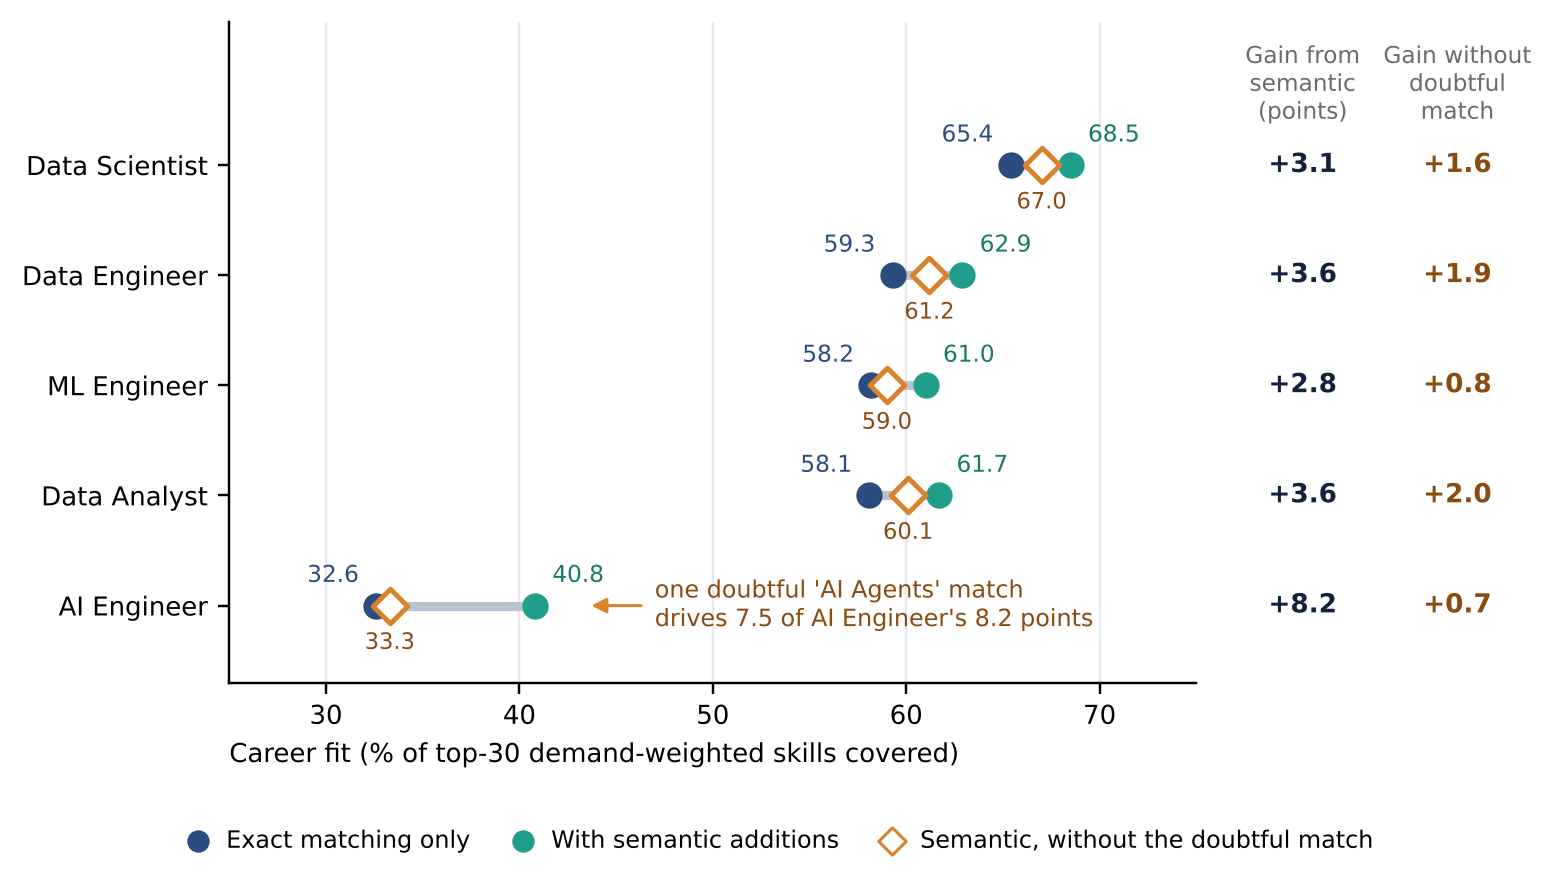
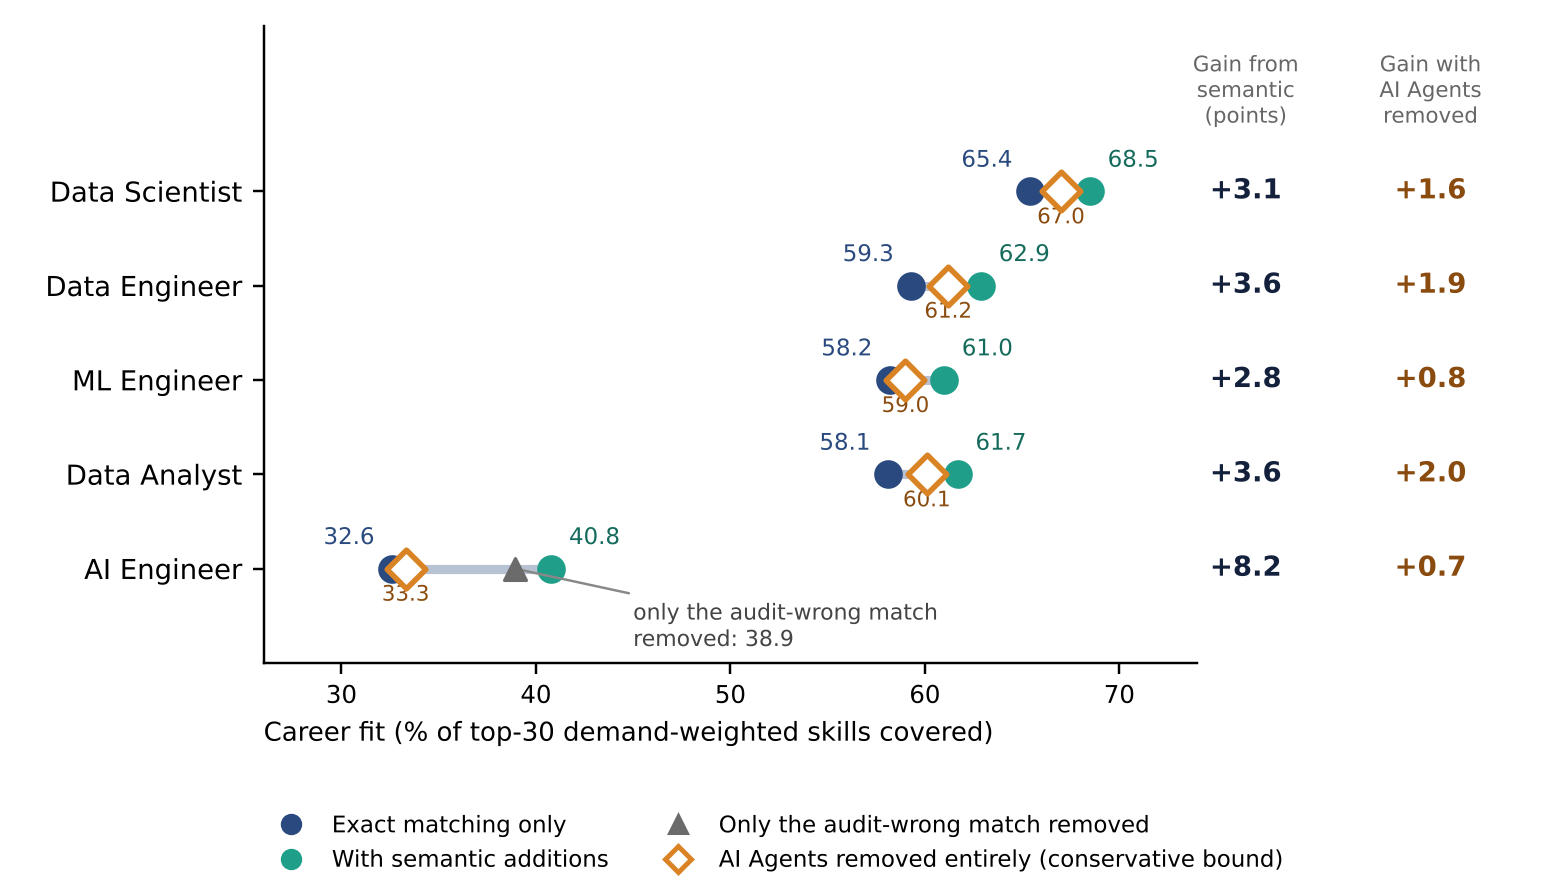
Update README and Figure 9 to match the corrected report

diff --git a/README.md b/README.md
@@ -12,12 +12,12 @@ We extract skills from Data/AI job advertisements (the U.S. benchmark) and from 
 
 * **Data:** 688 U.S. advertisements from 106 employers, five careers; 20 unit outlines from UTS, USYD and UNSW.
 * **Extraction:** strict F1 rises from 0.872 (plain matcher) to 0.943 (Baseline++), mostly from the human-reviewed dictionary; the semantic layer lifts implicit-skill recall from 0.023 to 0.349 at about 64% precision on what it adds.
-* **Alignment:** curriculum fit is highest for Data Scientist and lowest for AI Engineer (exact matching 65.4% and 32.6%; hybrid 68.5% and 40.8%). Gaps are in applied, production-oriented skills (causal inference, experimentation, dbt, observability, APIs, agents).
+* **Alignment:** curriculum fit is highest for Data Scientist and lowest for AI Engineer (exact matching 65.4% and 32.6%; hybrid 68.5% and 40.8%). One hybrid match for AI Agents (USYD COMP5310) was judged false in the audit; without it AI Engineer is 38.9%, and with AI Agents removed entirely 33.3%, so its hybrid fit is best read as about 33 to 41%. Gaps are in applied, production-oriented skills (causal inference, experimentation, dbt, observability, APIs, agents).
 * **Application:** upload a unit outline and get ranked career fits, covered skills, priority gaps and page-level evidence. A pilot test (n = 3) of the first version gave a mean rating of 4.40 out of 5 across all five questions; the interface was then revised (plain-language method names, sample button, "possibly covered" marking, tie warning, CSV download). The revised version has not been re-tested with users.
 
 ![Career fit under exact and hybrid matching](step6_app/images/career_fit_exact_vs_hybrid.png)
 
-*Curriculum fit for each career (share of the 30 most demanded skills covered by the 20 units), exact matching versus hybrid matching.*
+*Curriculum fit for each career (share of the 30 most demanded skills covered by the 20 units): exact matching, hybrid matching, only the audit-wrong AI Agents match removed, and AI Agents removed entirely (conservative bound).*
 
 ![The Streamlit application](step6_app/images/app_screenshot.png)
 
@@ -55,7 +55,7 @@ Every step folder has the same core: `README.md`, `requirements.txt`, the number
 | Step | Member | Task | Folder |
 |---|---|---|---|
 | 1 | Zheke Yi | Collect and clean the job advertisements: 688 U.S. ads, five careers | `step1_data/` |
-| 2 | Wancheng Liu | Build the skills dictionary: 132 skills, 232 aliases, 12 categories | `step2_dictionary/` |
+| 2 | Wancheng Liu | Build the skills dictionary: 132 skills, 232 aliases, 12 categories (the working vocabulary in Steps 3 to 5 has 158 skills after reviewed additions) | `step2_dictionary/` |
 | 3 | Jirawan Pedersen | Baseline NLP, PDF reader, curriculum alignment, 20-unit case study, sector lens | `step3_baseline_nlp/` |
 | 4 | Tao Lou | Semantic layer (Sentence Transformers), main evaluation and blinded audits | `step4_semantic/` |
 | 5 | Tengxiao Nong | Career profiles, matching scores, skill gaps and recommendations | `step5_matching/` |
@@ -95,7 +95,7 @@ Then open a step folder and run its notebook with Restart & Run All. The quickes
 | Evaluation, gold set and uncertainty | `step3_baseline_nlp/evaluate.py`, `gold_annotations.py`, `annotation/`; `step4_semantic/experiments.py`, `metrics.py` |
 | Findings: extraction accuracy | `step3_baseline_nlp/04_innovation_experiments.ipynb`; `step4_semantic/results/summary.md` |
 | Findings: curriculum alignment and sectors | `step3_baseline_nlp/06_curriculum_alignment.ipynb`, `07_sector_lens.ipynb`, `08_real_curriculum_case_study.ipynb`, `figures/` |
-| Bootstrap gains, AI Agents check, uncovered demand by category, greedy unit selection, top-N sensitivity (Table 8), audit precision (Figure 4) | `step5_matching/supplementary_analyses.py`, `11_supplementary_analyses.ipynb`, `step5_matching/outputs/supplementary/` |
+| Bootstrap gains, AI Agents check (including the false-match-only variant, `G_false_match_only.csv`), uncovered demand by category, greedy unit selection, top-N sensitivity (Table A2), audit precision (Figure 4) | `step5_matching/supplementary_analyses.py`, `11_supplementary_analyses.ipynb`, `step5_matching/outputs/supplementary/` |
 | Findings: exact versus hybrid career fit | `step4_semantic/results/details/curriculum_fit_exact_vs_hybrid.csv`; `step5_matching/outputs/` |
 | Blinded audits | `step4_semantic/results/audit/` |
 | Application and user test | `step6_app/app.py`; `run_app.command` / `run_app.bat`; `step6_app/user_testing/` |
